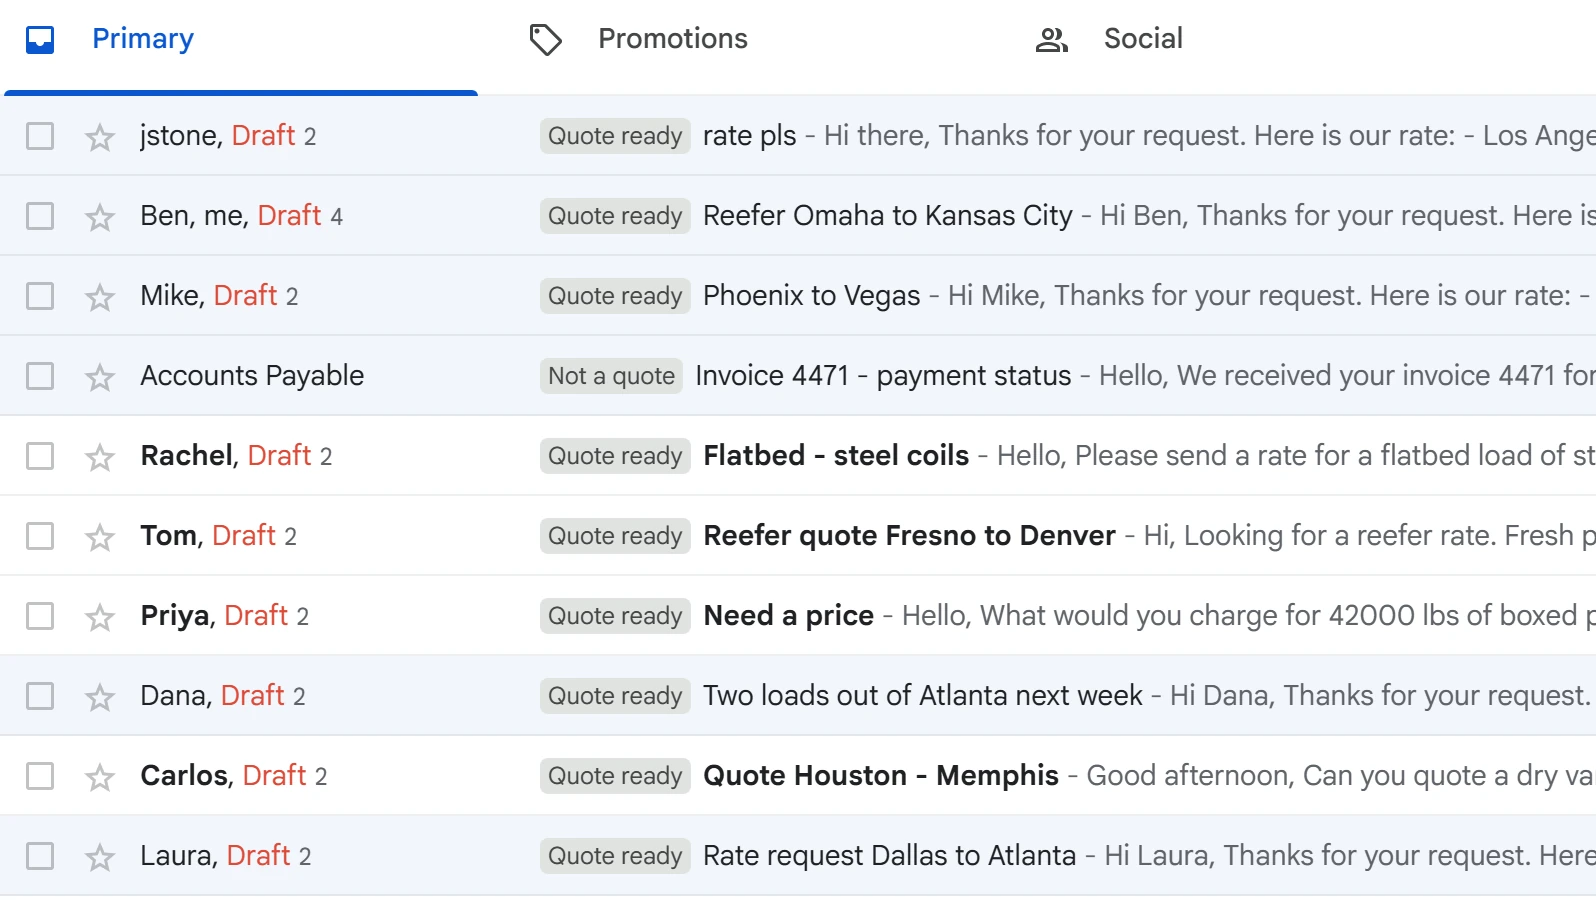
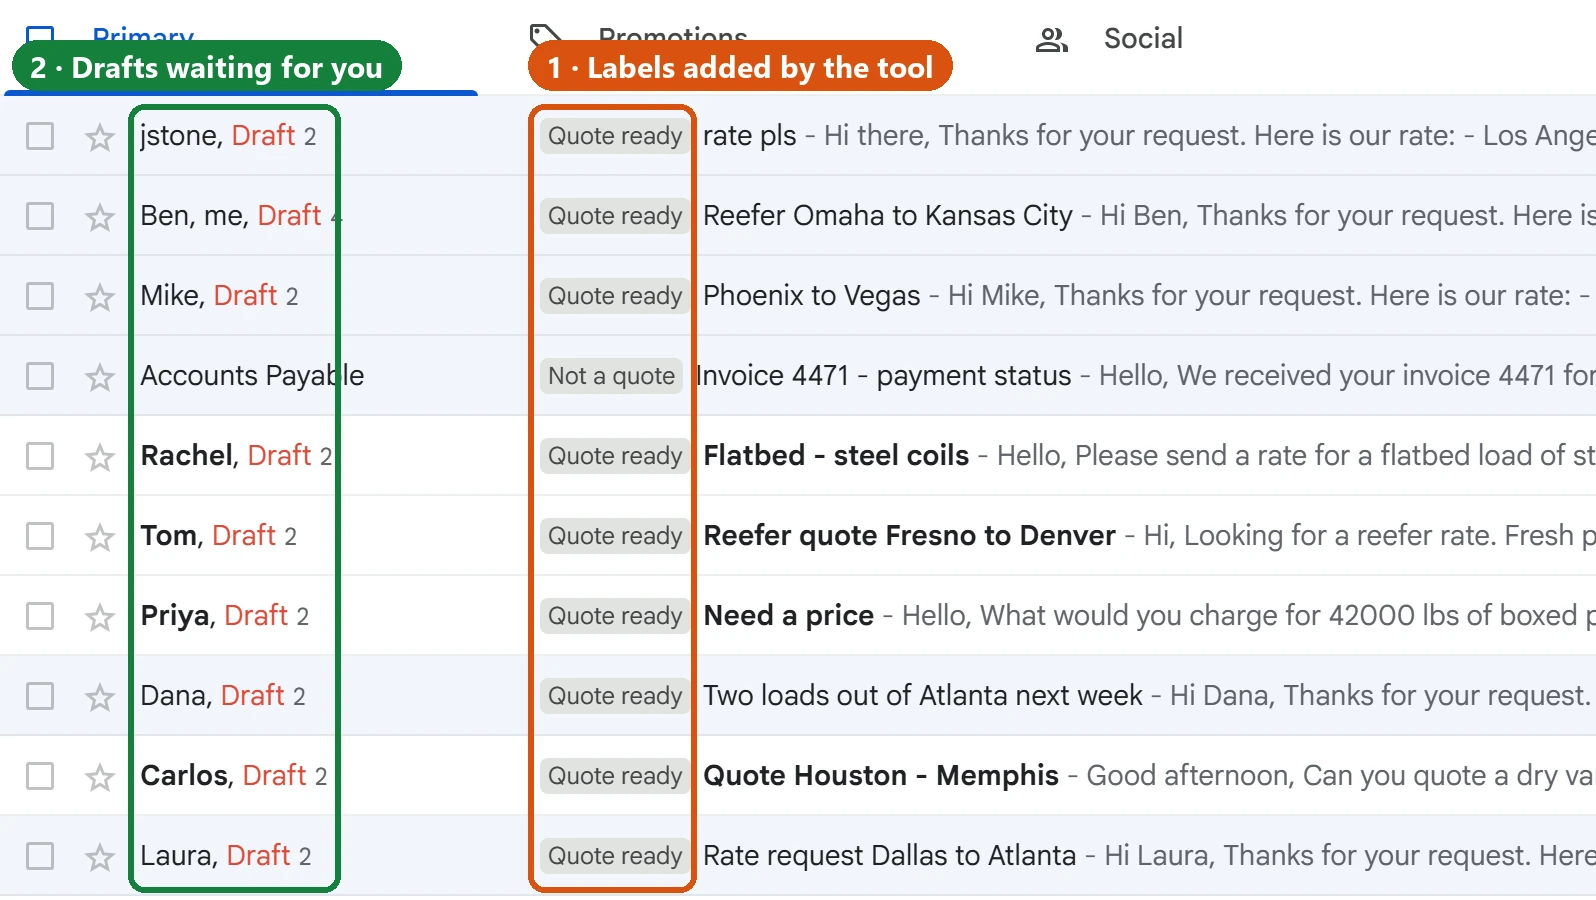
quote-drafts: numbered callouts on screenshots

Changed region(s): [[0.307, 0.0311, 0.614, 0.9956], [0.0, 0.0311, 0.2763, 0.9956]]

diff --git a/quote-drafts/index.html b/quote-drafts/index.html
@@ -69,6 +69,9 @@
   .gallery a.zoom { display:block; cursor:zoom-in; }
   .gallery img { display:block; width:100%; height:auto; }
   .gallery figcaption { padding:12px 16px; font-size:.98rem; color:var(--muted); border-top:1px solid var(--line); background:#fff; }
+  .gallery figcaption .n1, .gallery figcaption .n2 { display:inline-block; min-width:1.5em; padding:0 .45em; border-radius:1em;
+    color:#fff; font-weight:700; font-size:.85em; text-align:center; margin-right:2px; }
+  .gallery figcaption .n1 { background:#d95312; } .gallery figcaption .n2 { background:#16803d; }
   .gal-btn {
     position:absolute; top:45%; transform:translateY(-50%);
     width:46px; height:46px; border-radius:50%; border:1px solid var(--line);
@@ -175,19 +178,19 @@
       <div class="gallery" id="gal">
         <figure>
           <a class="zoom" href="shot-draft-dallas.webp"><img src="shot-draft-dallas.webp" alt="Draft reply for a Dallas TX to Atlanta GA rate request, quoting a dry van rate from the broker's own history." width="1476" height="1230" loading="lazy"></a>
-          <figcaption>One lane, one draft: dry van, 40,000 lbs, the rate comes from the broker's own history sheet.</figcaption>
+          <figcaption><span class="n1">1</span> A shipper asks for a rate. <span class="n2">2</span> Within 5 minutes a reply sits in Drafts, same thread, rate from the broker's own history. Nothing is sent.</figcaption>
         </figure>
         <figure>
           <a class="zoom" href="shot-draft-two-lanes.webp"><img src="shot-draft-two-lanes.webp" alt="Draft reply covering two lanes from one email, one with a rate and one marked RATE no history for this lane." width="1476" height="1330" loading="lazy"></a>
-          <figcaption>Two lanes in one email: a rate where there is history, a plain placeholder where there isn't &mdash; never a guess.</figcaption>
+          <figcaption><span class="n1">1</span> Two lanes in one email. <span class="n2">2</span> A rate where there is history, a plain [RATE] note where there isn't &mdash; never a guess.</figcaption>
         </figure>
         <figure>
           <a class="zoom" href="shot-draft-typos.webp"><img src="shot-draft-typos.webp" alt="Draft reply correctly reading Los Angelas and San Antonoi despite the typos in the original request." width="1476" height="1030" loading="lazy"></a>
-          <figcaption>Typos in the original ("Los Angelas", "San Antonoi") don't stop it from reading the lane correctly.</figcaption>
+          <figcaption><span class="n1">1</span> A one-line request with typos. <span class="n2">2</span> The draft still reads the lane, weight and date correctly.</figcaption>
         </figure>
         <figure>
           <a class="zoom" href="shot-inbox.webp"><img src="shot-inbox.webp" alt="Gmail inbox with ten test rate requests, most labelled Quote ready and one invoice labelled Not a quote." width="1596" height="900" loading="lazy"></a>
-          <figcaption>A test Gmail inbox after a run: rate requests labelled <b>Quote ready</b>, an invoice labelled <b>Not a quote</b>.</figcaption>
+          <figcaption>The test inbox after one run. <span class="n1">1</span> Rate requests get <b>Quote ready</b>, the invoice gets <b>Not a quote</b>. <span class="n2">2</span> Each request has a draft waiting.</figcaption>
         </figure>
       </div>
       <button class="gal-btn gal-next" type="button" aria-label="Next screenshot" onclick="galGo(1)">&#8250;</button>
